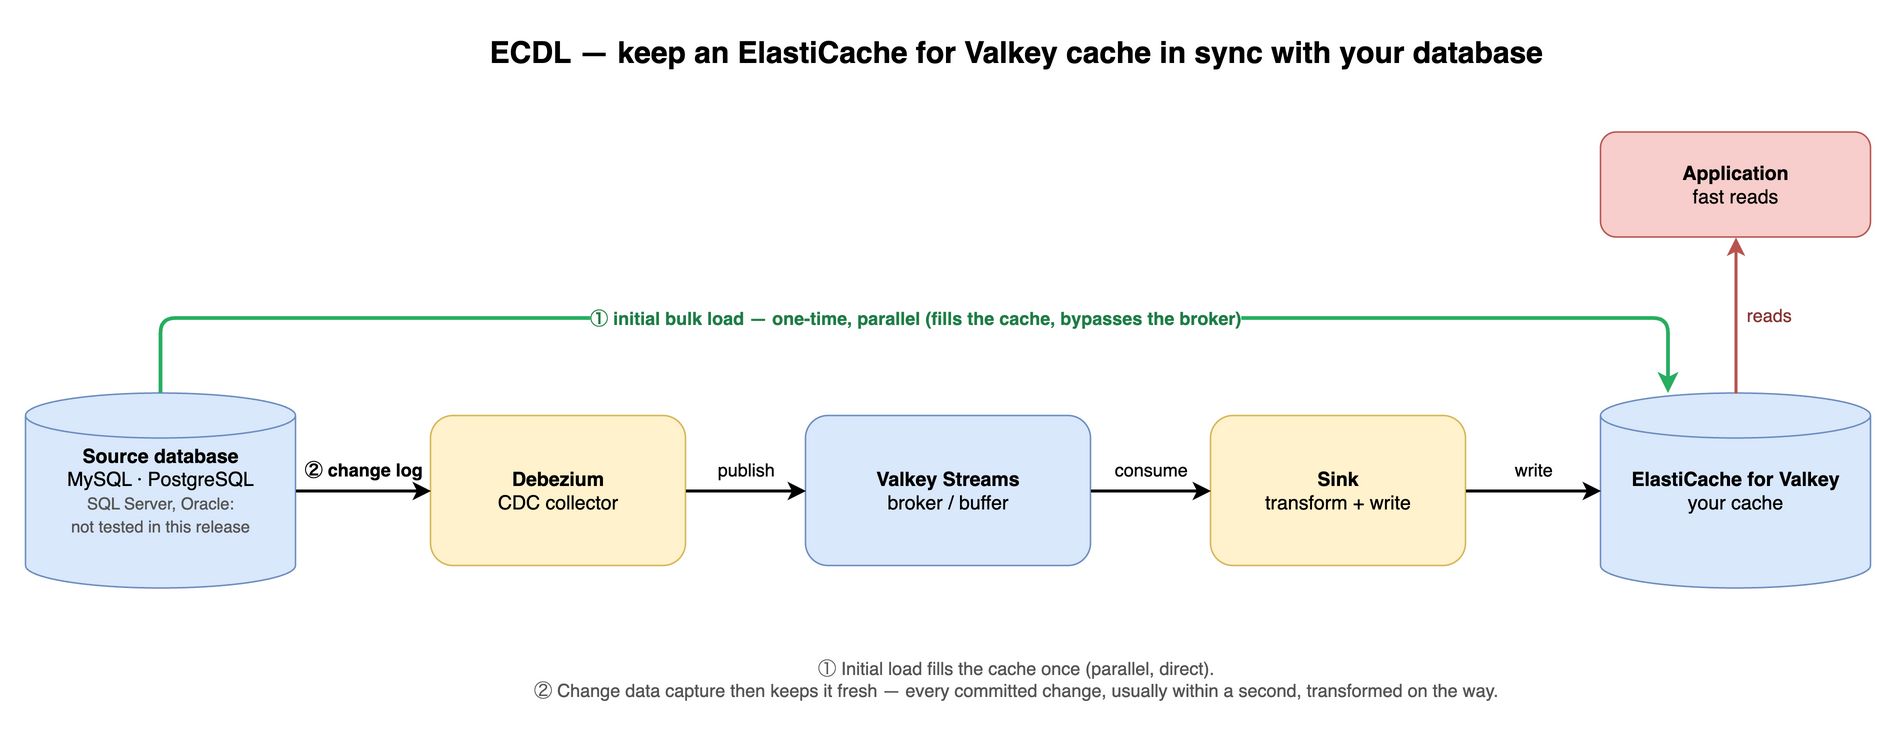
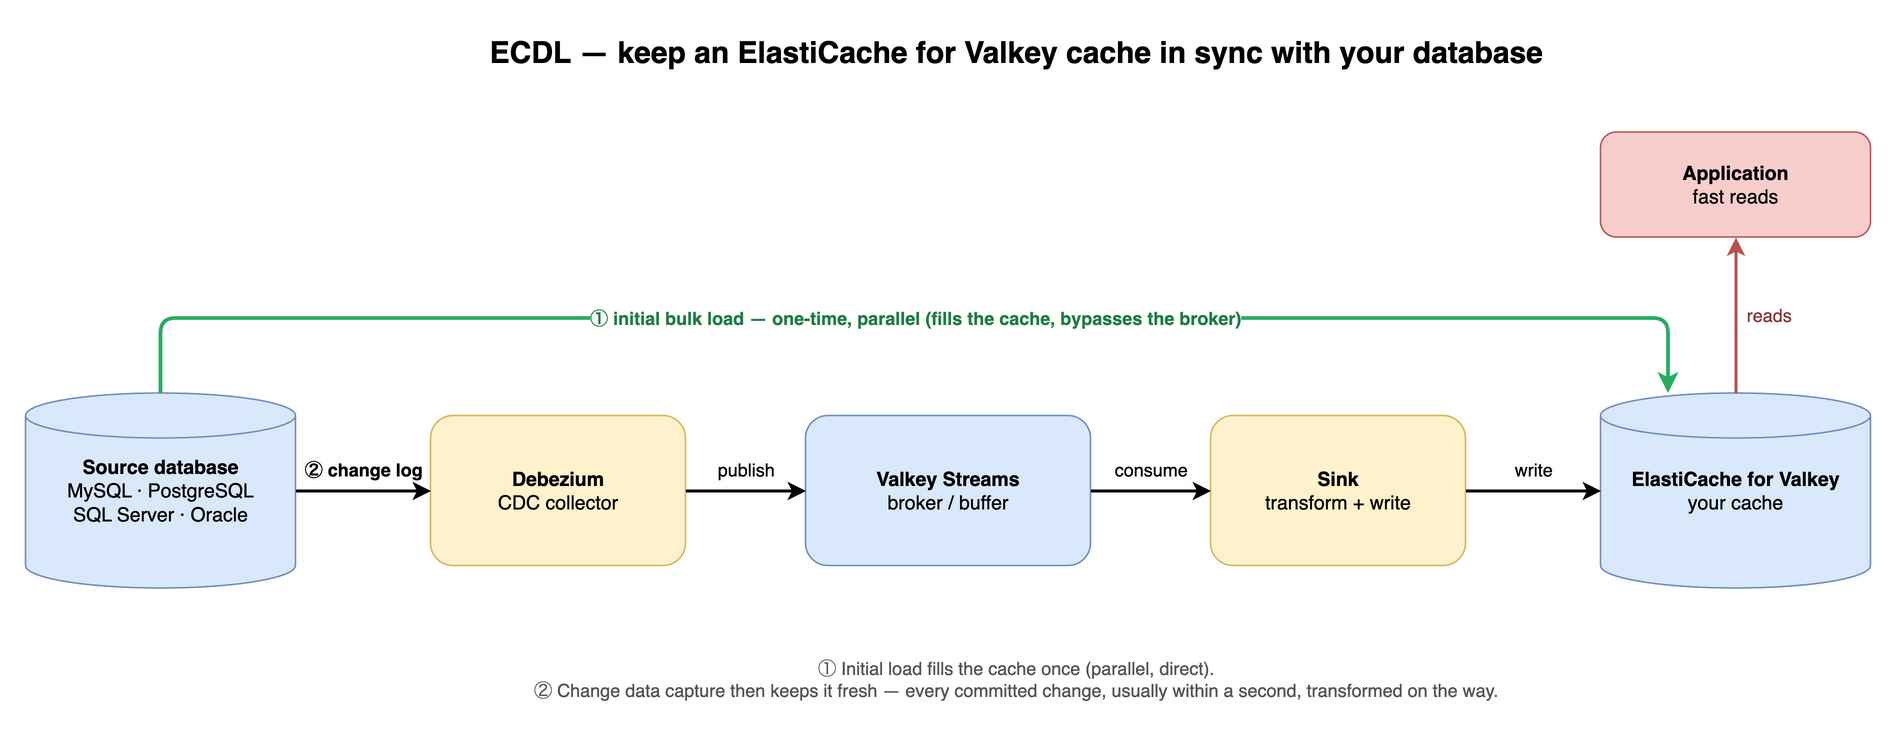
ECDL: all four engines ran end to end; diagram lists them

Changed region(s): [[0.0311, 0.5995, 0.1554, 0.7493]]

diff --git a/tools/elasticache-data-link/README.md b/tools/elasticache-data-link/README.md
@@ -31,12 +31,14 @@ log is work each team ends up doing alone.
 
 More in the [one-pager](docs/one-pager.md).
 
-**Status:** release 0.2.31 (`VERSION`). Tested live on Aurora MySQL 3 with an
-ElastiCache for Valkey cluster: bulk load, inserts, updates and deletes,
-filters, computed fields, renames, denormalize, reload, failovers of the
-broker and the target, and secret rotation. PostgreSQL is covered by the
-automated suites and the benchmark runs, not by a live test. SQL Server and
-Oracle are not tested in this release. See [Limitations](#limitations).
+**Status:** release 0.2.31 (`VERSION`). All four source engines have run end
+to end, bulk load and live change capture with every row delivered: Aurora
+MySQL 8.0, Aurora PostgreSQL 16, SQL Server 2022 and RDS Oracle 19c (see
+[Benchmark results](docs/benchmark-results.md)). This release was also tested
+live on Aurora MySQL 3 with an ElastiCache for Valkey cluster: bulk load,
+inserts, updates and deletes, filters, computed fields, renames, denormalize,
+reload, failovers of the broker and the target, and secret rotation. See
+[Limitations](#limitations).
 
 **Contents:** [What you need](#what-you-need) · [Deploy in five steps](#deploy-in-five-steps) ·
 [Check it offline](#check-it-offline) · [Prepare the database](#prepare-the-database) ·
@@ -314,8 +316,8 @@ database and the target cache are yours**; a link references them by ARN (Amazon
 |---|---|---|
 | MySQL / Aurora MySQL | supported | row-based binlog |
 | PostgreSQL / Aurora PostgreSQL | supported | logical decoding (`pgoutput`) |
-| SQL Server | not tested in this release | CDC change tables, polled |
-| Oracle | preview, not tested in this release | LogMiner |
+| SQL Server | supported | CDC change tables, polled |
+| Oracle | supported, non-CDB databases (RDS Oracle 19c) | LogMiner |
 
 The engine is detected from `source.arn`.
 
@@ -568,7 +570,11 @@ Your source database and target cache are billed as before.
 - **MySQL `BIGINT UNSIGNED`** values above 9,223,372,036,854,775,807 are
   stored as the signed number Debezium sends (`18446744073709551615` becomes
   `-1`).
-- **SQL Server and Oracle** are not tested in this release.
+- **Oracle** runs on a non-CDB database; a multitenant container database
+  (CDB with pluggable databases, the only option on RDS Oracle 21c) is not
+  supported.
+- **Release testing:** each release is tested live on Aurora MySQL; the other
+  engines were last measured end to end in the benchmark runs (0.1.0).
 
 ## Security
 
